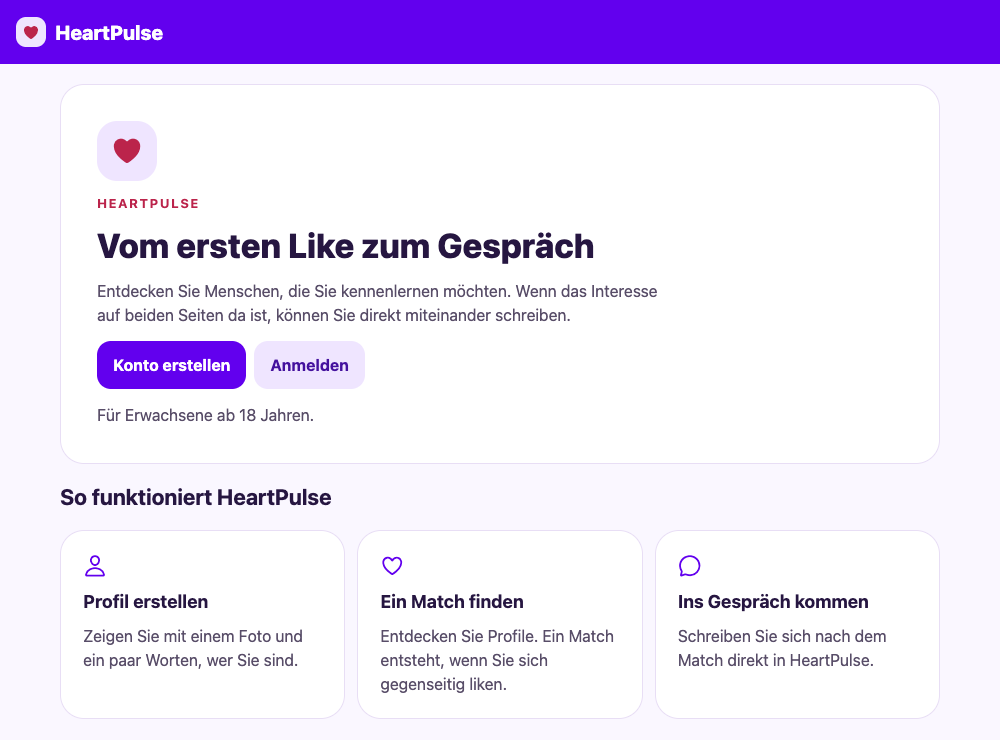
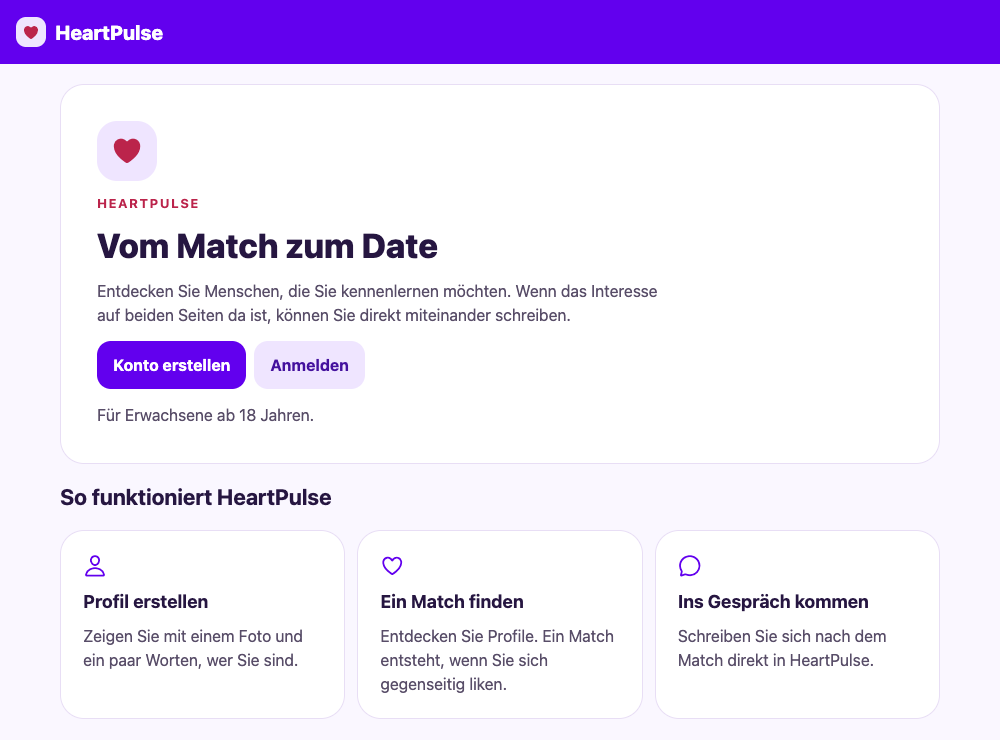
Update the HeartPulse tagline

Changed region(s): [[0.155, 0.3108, 0.589, 0.373]]

diff --git a/DatingApp/src/landing.js b/DatingApp/src/landing.js
@@ -20,7 +20,7 @@ export function Landing() {
           <Ionicons name="heart" size={32} color={colors.pink} accessible={false} aria-hidden={true} />
         </View>
         <Text style={styles.kicker}>HEARTPULSE</Text>
-        <Text accessibilityRole="header" style={styles.title}>Vom ersten Like zum Gespräch</Text>
+        <Text accessibilityRole="header" style={styles.title}>Vom Match zum Date</Text>
         <Text style={[styles.body, local.intro]}>Entdecken Sie Menschen, die Sie kennenlernen möchten. Wenn das Interesse auf beiden Seiten da ist, können Sie direkt miteinander schreiben.</Text>
         <View style={styles.row}>
           <LandingLink href={{ pathname: "/live", params: { mode: "register" } }} label="Konto erstellen" />
